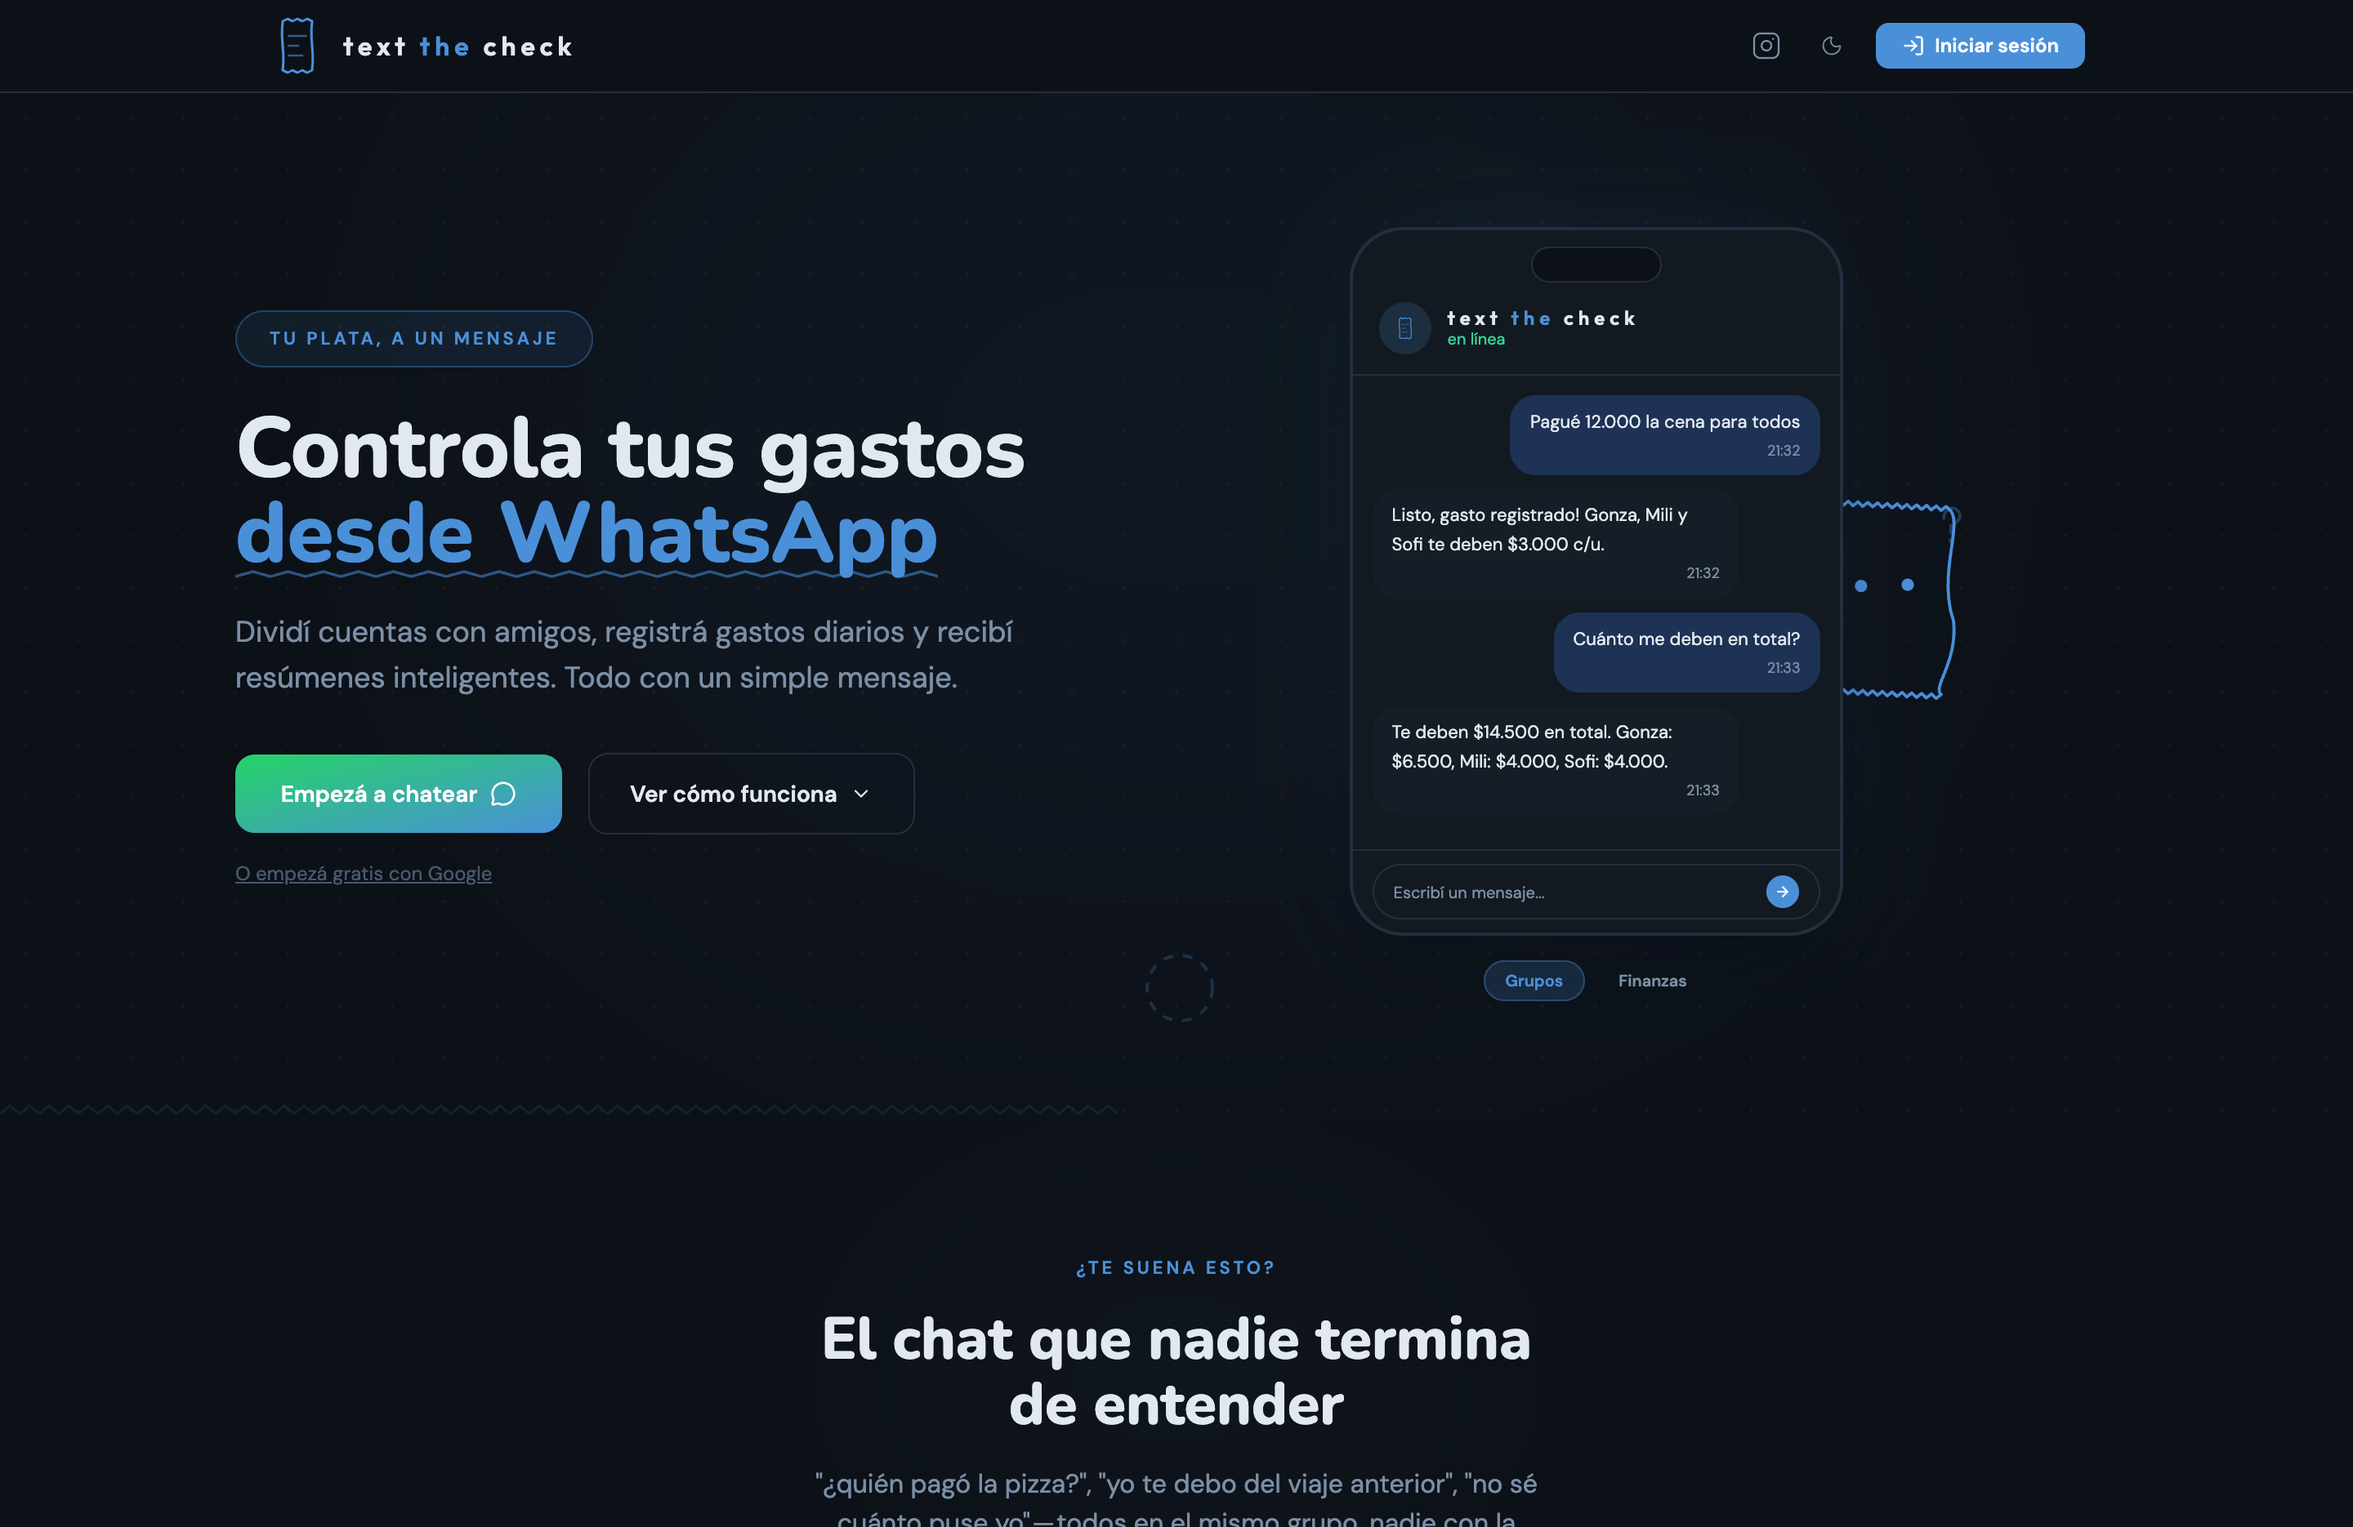
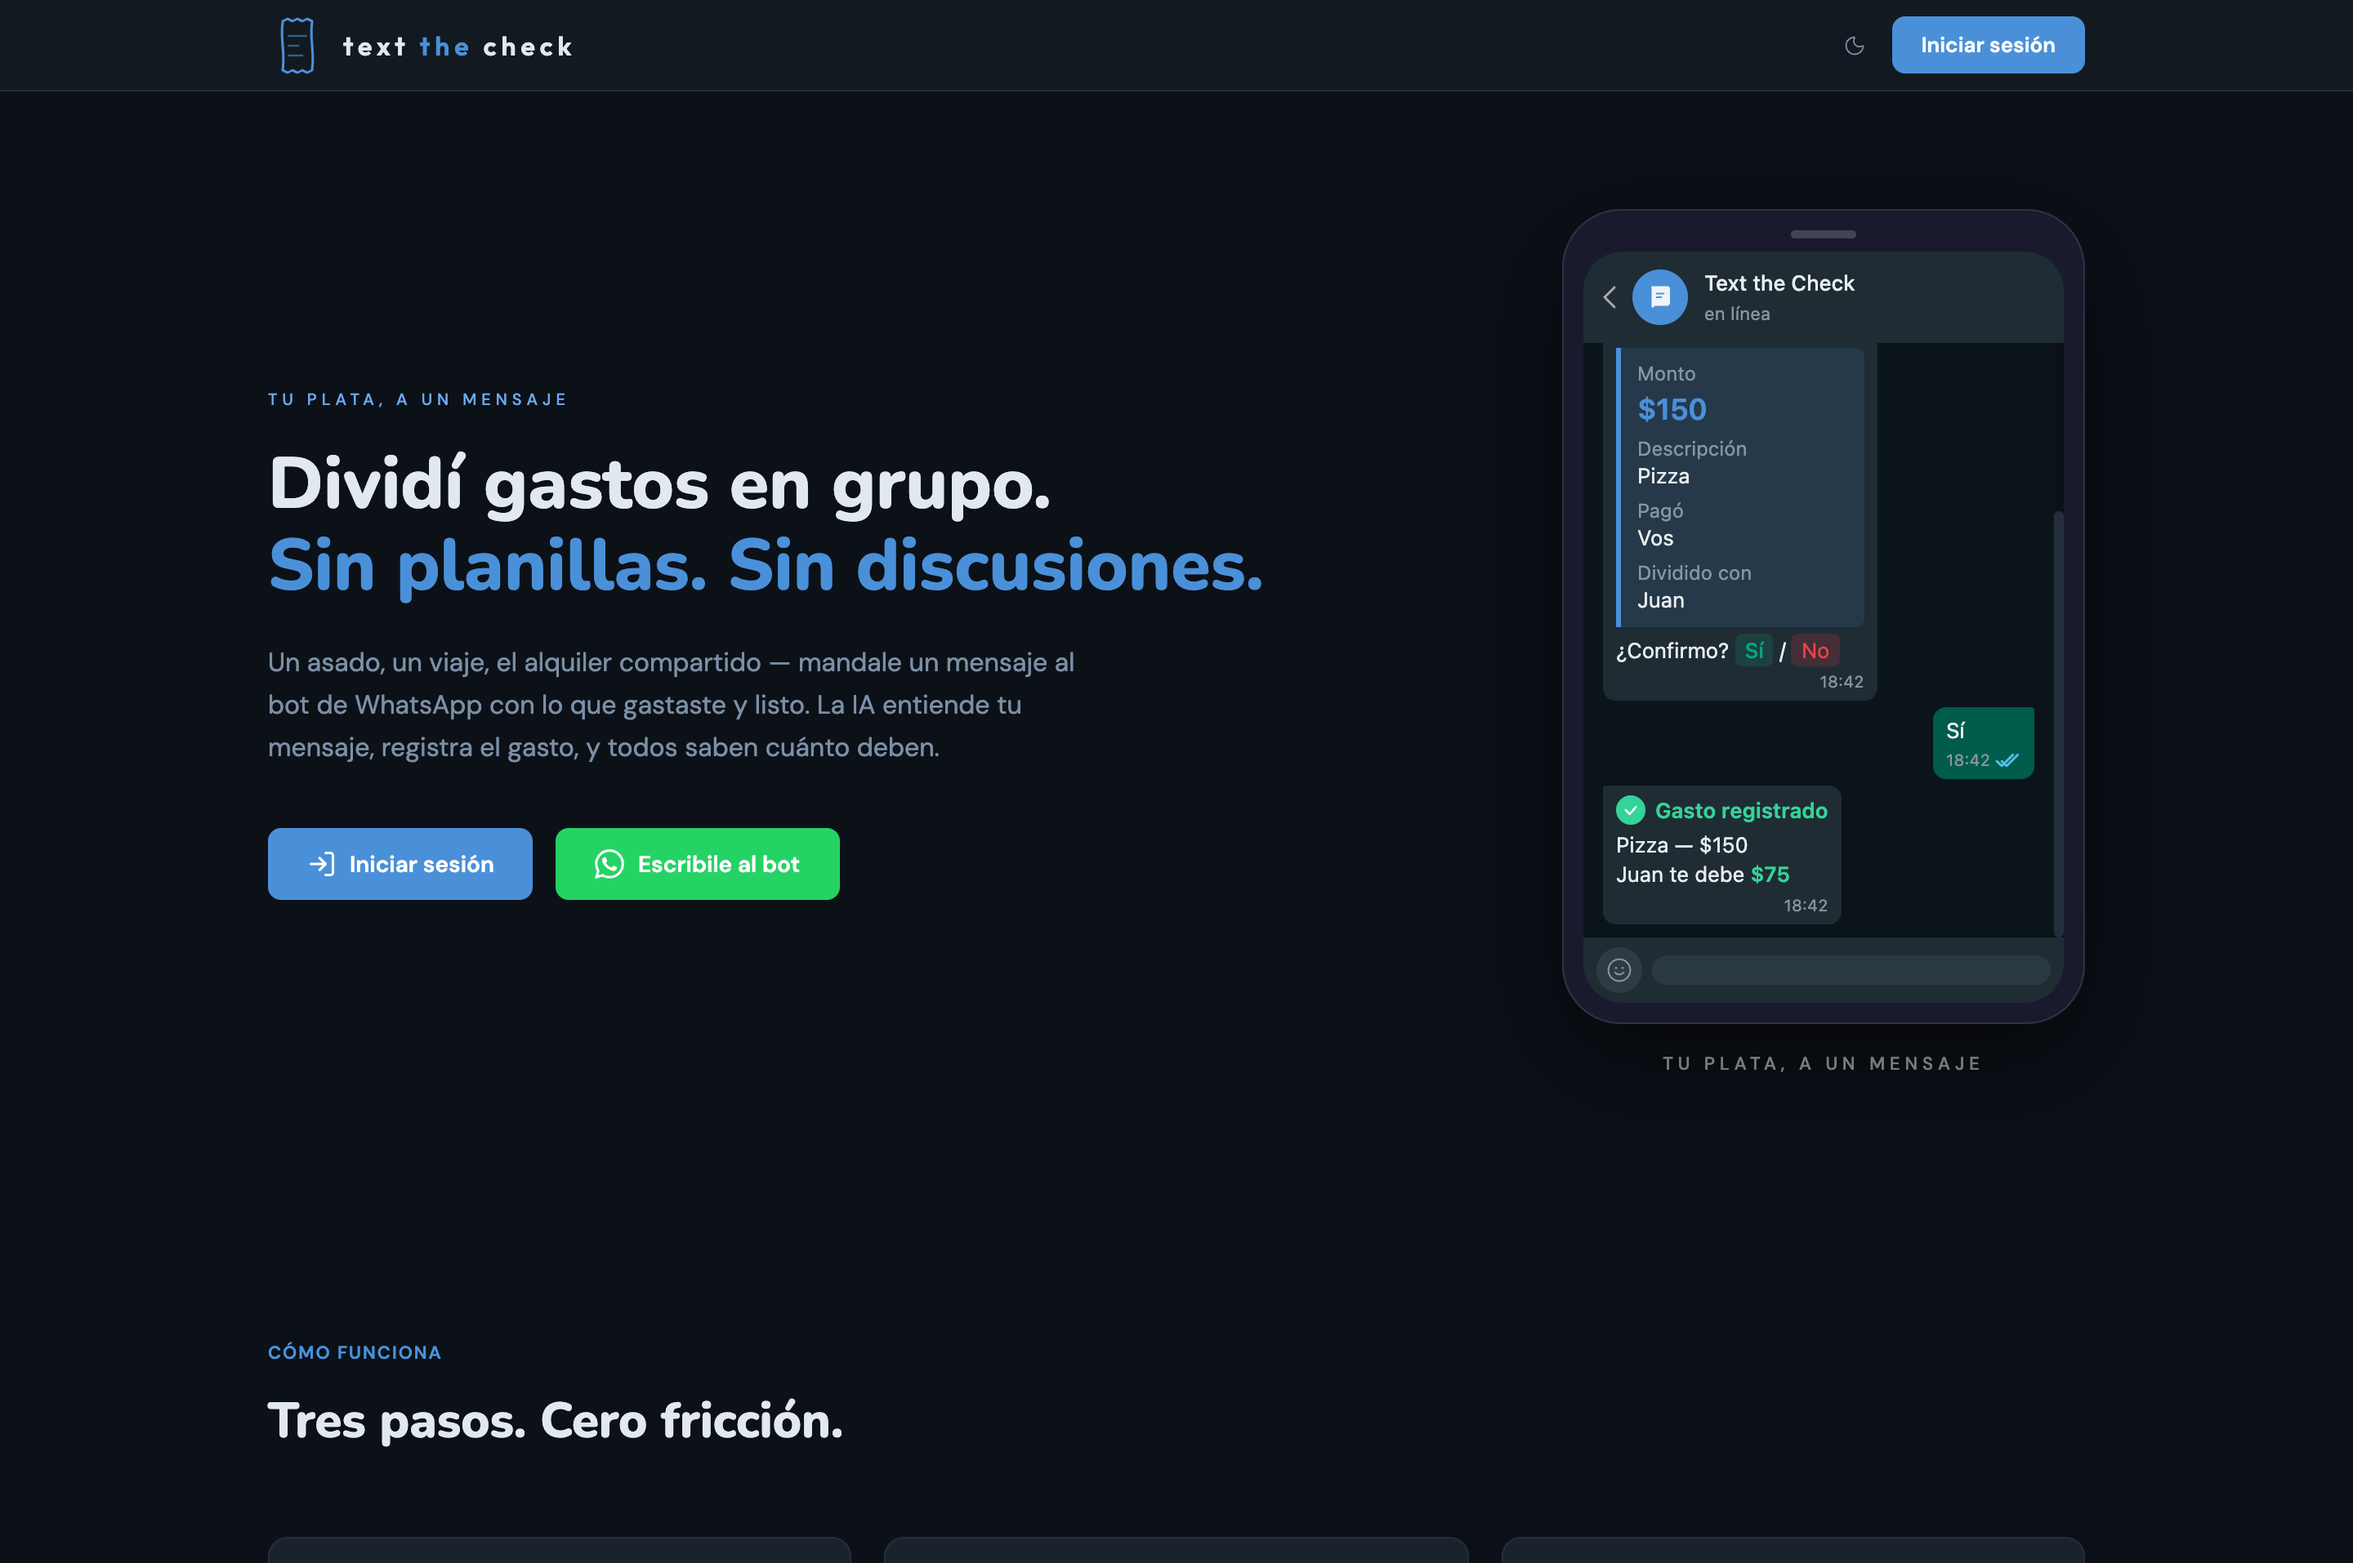
Add Cruzar Deportes project and images
Introduce the Cruzar Deportes entry to the FeaturedWork component and include its PNG/WebP assets. Add English and Spanish i18n descriptions for the new project. Also update the Text the Check images (replace binaries) and add a ?v=2 query param to force cache refresh.

diff --git a/components/sections/FeaturedWork.vue b/components/sections/FeaturedWork.vue
@@ -102,11 +102,21 @@ const projects = computed(() => [
     height: 1870,
   },
   {
+    slug: 'cruzar-deportes',
+    title: 'Cruzar Deportes',
+    description: t('featuredWork.cruzarDeportes.description'),
+    image: '/assets/images/cruzar-deportes.png',
+    imageWebp: '/assets/images/cruzar-deportes.webp',
+    url: 'https://cruzardeportes.com',
+    width: 2880,
+    height: 1870,
+  },
+  {
     slug: 'text-the-check',
     title: 'Text the Check',
     description: t('featuredWork.textTheCheck.description'),
-    image: '/assets/images/text-the-check.png',
-    imageWebp: '/assets/images/text-the-check.webp',
+    image: '/assets/images/text-the-check.png?v=2',
+    imageWebp: '/assets/images/text-the-check.webp?v=2',
     url: 'https://textthecheck.app',
     width: 2880,
     height: 1870,
